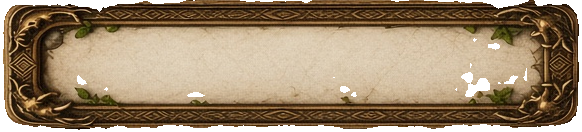
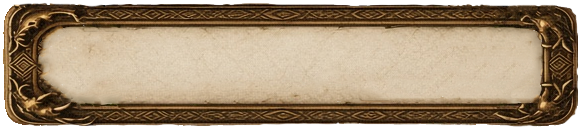
Add files via upload

diff --git a/js/ui_title.js b/js/ui_title.js
@@ -342,9 +342,12 @@ function drawSpiritShop() {
   ctx.globalAlpha = popupFade;
   var pw = WIDTH - 20, ph = HEIGHT - 40, px = 10, py = 20;
   drawMenuPanelBg(px, py, pw, ph, 20);
+  ctx.globalAlpha = 1;
   drawMenuTitle('Магазин Духов', WIDTH / 2, py + 50, 240, 48);
+  ctx.globalAlpha = 1;
   var scx = px + pw - 28, scy = py + 32;
   drawOutlinedText('×', scx, scy, 'bold 22px Segoe UI, Arial', 'center');
+  ctx.globalAlpha = popupFade;
   titleLayout._spiritShopClose = { x: scx - 16, y: scy - 16, w: 32, h: 32 };
   var itemH = 90, startY = py + 90;
   spiritShopHits = [];
@@ -471,7 +474,7 @@ function drawTitleMenuPanel() {
       var order = ready ? 0 : (done ? 2 : 1);
       return { m: m, done: done, progress: progress, ready: ready, order: order };
     }).sort(function(a, b) { return a.order - b.order || a.m.id - b.m.id; });
-    var rowH = 88, scrollW = pw - 24, scrollH = rowH - 6;
+    var rowH = 100, scrollW = pw - 20, scrollH = rowH - 4;
     var viewTop2 = 63, viewH2 = ph - 115;
     var contentH2 = sorted.length * rowH;
     missionScrollMax = Math.max(0, contentH2 - viewH2);
@@ -485,7 +488,7 @@ function drawTitleMenuPanel() {
     ctx.save(); ctx.beginPath(); ctx.rect(4, viewTop2, pw - 8, viewH2); ctx.clip();
     for (var i = 0; i < sorted.length; i++) {
       var s = sorted[i], m = s.m;
-      var sx0 = 12, my = viewTop2 + i * rowH - missionScrollY;
+      var sx0 = 10, my = viewTop2 + i * rowH - missionScrollY;
       if (my + scrollH < viewTop2 - 4 || my > viewTop2 + viewH2 + 4) continue;
       var midX = sx0 + scrollW / 2;
       if (isImageReady(scrollImg)) { ctx.save(); if (s.done) ctx.globalAlpha = 0.7; ctx.drawImage(scrollImg, sx0, my, scrollW, scrollH); ctx.restore(); }
@@ -495,13 +498,27 @@ function drawTitleMenuPanel() {
       var title = m.text;
       var maxTw = scrollW - 100;
       if (ctx.measureText(title).width > maxTw) { while (title.length > 8 && ctx.measureText(title + '…').width > maxTw) title = title.slice(0, -1); title += '…'; }
-      ctx.fillText(title, midX, my + scrollH * 0.32);
-      ctx.font = '12px Segoe UI'; ctx.fillStyle = TEXT_COL;
-      ctx.fillText(Math.min(s.progress, m.need) + '/' + m.need + ' · монеты ×' + m.reward, midX, my + scrollH * 0.52);
-      var rollLineY = my + scrollH * 0.72;
-      if (isImageReady(rollImg)) ctx.drawImage(rollImg, midX - 36, rollLineY - 9, 18, 18);
-      ctx.fillStyle = TEXT_COL; ctx.font = 'bold 12px Segoe UI'; ctx.textAlign = 'left';
-      ctx.fillText('+' + MISSION_ROLL_REWARD, midX - 14, rollLineY + 1);
+      ctx.fillText(title, midX, my + scrollH * 0.25);
+      ctx.font = '11px Segoe UI'; ctx.fillStyle = TEXT_COL;
+      ctx.fillText('В процессе : ' + Math.min(s.progress, m.need) + ' из ' + m.need, midX, my + scrollH * 0.45);
+      var rewardY = my + scrollH * 0.7;
+      var iconS = 14;
+      var rwText = '+' + MISSION_ROLL_REWARD;
+      var cwText = '×' + m.reward;
+      ctx.font = '11px Segoe UI';
+      var rwW = (isImageReady(rollImg) ? iconS + 4 : 0) + ctx.measureText(rwText).width;
+      var cwW = (isImageReady(goldImg) ? iconS + 4 : 0) + ctx.measureText(cwText).width;
+      var rewardGap = 16;
+      var totalRW = rwW + rewardGap + cwW;
+      var rewardStartX = midX - totalRW / 2;
+      var rX = rewardStartX;
+      if (isImageReady(rollImg)) { ctx.drawImage(rollImg, rX, rewardY - iconS / 2, iconS, iconS); rX += iconS + 4; }
+      ctx.fillStyle = TEXT_COL; ctx.font = '11px Segoe UI'; ctx.textAlign = 'left';
+      ctx.fillText(rwText, rX, rewardY);
+      rX += ctx.measureText(rwText).width + rewardGap;
+      if (isImageReady(goldImg)) { ctx.drawImage(goldImg, rX, rewardY - iconS / 2, iconS, iconS); rX += iconS + 4; }
+      ctx.fillText(cwText, rX, rewardY);
+      ctx.textAlign = 'center';
       ctx.textBaseline = 'alphabetic';
       if (s.done) { ctx.fillStyle = TEXT_COL; ctx.font = 'bold 14px Segoe UI'; ctx.textAlign = 'right'; ctx.fillText('✓', sx0 + scrollW - 24, my + scrollH / 2); }
       else if (s.ready) {

diff --git a/js/game.js b/js/game.js
@@ -640,6 +640,34 @@ function draw() {
     var panelX = (WIDTH - panelW) / 2, panelY = (HEIGHT - panelH) / 2 - 20;
     drawMenuPanelBg(panelX, panelY, panelW, panelH, 20);
     drawMenuTitle('ПАУЗА', WIDTH / 2, panelY + 42, 200, 48);
+    var titleCY = panelY + 42;
+    var cellS = 28;
+    var titleTextW = ctx.measureText('ПАУЗА').width;
+    ctx.font = 'bold 20px Segoe UI,Arial';
+    titleTextW = ctx.measureText('ПАУЗА').width;
+    var afterTitleX = WIDTH / 2 + titleTextW / 2 + 4;
+    var cellX = afterTitleX, cellY = titleCY - cellS / 2;
+    var cellText = currentLevel > 0 ? String(currentLevel) : '∞';
+    if (currentLevel > 0) {
+      var bg = getLevelRangeImg(currentLevel);
+      if (isImageReady(bg)) { ctx.drawImage(bg, cellX, cellY, cellS, cellS); }
+      else { ctx.fillStyle = 'rgba(255,255,255,0.1)'; roundRect(cellX, cellY, cellS, cellS, 6); ctx.fill(); }
+    } else {
+      ctx.fillStyle = 'rgba(255,255,255,0.1)'; roundRect(cellX, cellY, cellS, cellS, 6); ctx.fill();
+    }
+    ctx.font = 'bold 16px Segoe UI, Arial'; ctx.textAlign = 'center'; ctx.textBaseline = 'middle';
+    ctx.lineJoin = 'round'; ctx.miterLimit = 2; ctx.strokeStyle = TEXT_COL; ctx.lineWidth = 2.5;
+    ctx.strokeText(cellText, cellX + cellS / 2, cellY + cellS / 2);
+    ctx.fillStyle = '#ffffff'; ctx.fillText(cellText, cellX + cellS / 2, cellY + cellS / 2);
+    ctx.textBaseline = 'alphabetic'; ctx.textAlign = 'center';
+    var coinRowY = titleCY + 58;
+    var coinBlockW = 24 + 8 + ctx.measureText('× ' + runCoins).width;
+    var coinBlockX = (WIDTH - coinBlockW) / 2;
+    if (isImageReady(goldImg)) ctx.drawImage(goldImg, coinBlockX, coinRowY - 12, 24, 24);
+    ctx.fillStyle = TEXT_COL; ctx.font = 'bold 15px Segoe UI, Arial';
+    ctx.textAlign = 'left'; ctx.textBaseline = 'middle';
+    ctx.fillText('× ' + runCoins, coinBlockX + 32, coinRowY);
+    ctx.textAlign = 'center'; ctx.textBaseline = 'alphabetic';
     if (currentLevel > 0 && levelTarget > 0) {
       var lineX1 = panelX + 40, lineX2 = panelX + panelW - 40;
       var lineY = panelY + panelH / 2;
